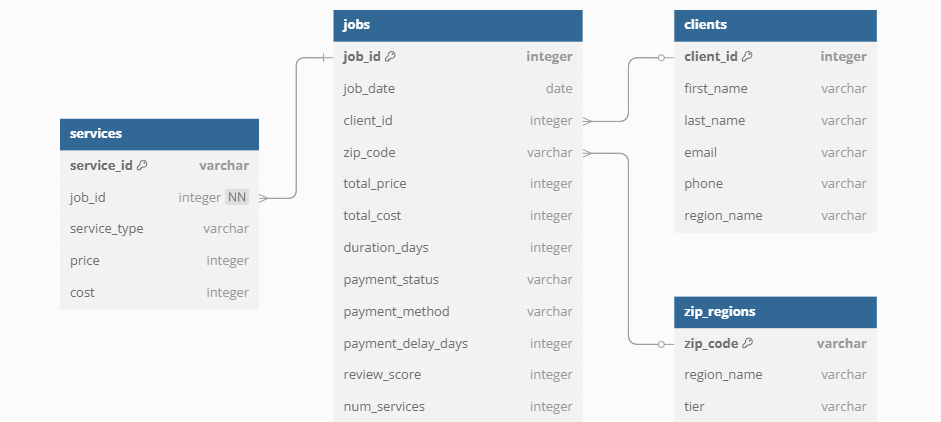
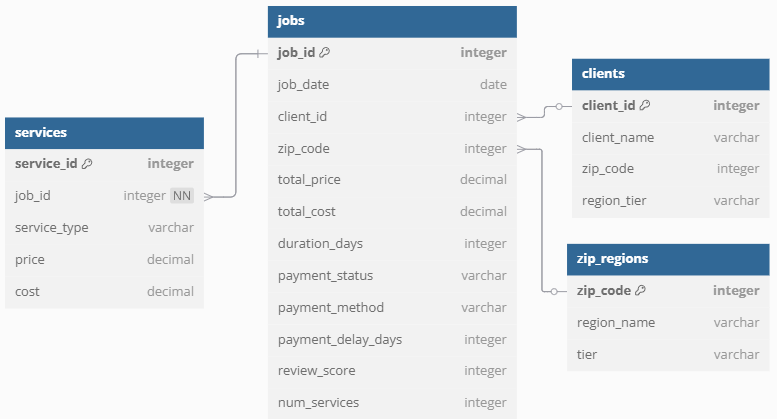
updated readme, files

diff --git a/data_generation/generate_dataset.py b/data_generation/generate_dataset.py
@@ -1,3 +1,18 @@
+"""
+This script creates a synthetic dataset simulating a residential home services business.
+It generates four CSV files: jobs.csv, services.csv, clients.csv, and zip_regions.csv.
+
+HOW TO RUN:
+1. Make sure you have Python 3 installed.
+2. Install required packages using:
+   pip install faker numpy pandas
+3. Run the script in your terminal or VS Code:
+   python generate_dataset.py
+4. Output CSV files will be saved in the 'data' directory.
+
+Note: The data is randomized but based on real-world logic and business operations.
+"""
+
 # Synthetic Home Services Dataset Generator
 import pandas as pd
 import numpy as np

diff --git a/README.md b/README.md
@@ -1,2 +1,93 @@
-# Home_Services_Operational_Dashboard
-Synthetic home services dataset and Excel dashboard built from real business experience. Designed for hands-on analysis and data visualization practice.
+# Home Services Operational Dashboard
+
+Before becoming a Data Analyst, I ran my own exterior cleaning company in Orlando, FL. We specialized in pressure washing, soft washing, and paver sealing. I always wished I had better data to guide decisions, so I built the dataset I never had. This project uses synthetic data modeled directly on my real-world experience, scaled up in volume to uncover trends and evaluate performance with the kind of depth I used to want as a small business owner.
+
+📊 [Excel Dashboard](./home_services_project.xlsx)
+
+![Excel Dashboard Overview](assets/home_services_operational_dashboard.png)
+
+## 🧠 Executive Summary
+
+Built on synthetic data modeled from my own business, this project uncovers key insights into how a small home services company operates in real life—in terms of volume, profitability, and customer behavior:
+
+- **Consistent Volume:** ~90 jobs/month across two years, reflecting sustainable operations.
+- **Bundling Wins:** Jobs with 3–4 services delivered 40–90% more profit per job.
+- **Top Services:** Roof Cleaning and Paver Sealing dominate profit and revenue.
+- **Healthy Margins:** Most services yield 80%+ profit margins, even when bundled.
+- **Customer Trends:** 30% repeat client rate and 41% multi-service booking rate.
+
+## 🔧 Dataset Creation
+
+Using Python (in VS Code), with help from ChatGPT, I built a data generator powered by `Faker` and `NumPy` that reflects real-world dynamics from my days running an exterior-cleaning business: seasonal demand, ZIP-level pricing tiers (High, Mid, Standard), frequent bundling, and even repeat client behavior.  
+🛠 [Data Generation Script](./data_generation/generate_dataset.py)  
+📂 [Data Folder](./data/)  
+
+<img src="assets/entity_relationship_diagram.png" width="600"/>
+
+## 💡 Key Business Questions Answered
+
+- Which services drive the most profit and why?
+- How do bundled jobs compare to single-service bookings?
+- Are we operating near job capacity across months?
+- What’s the ratio of repeat clients and multi-service customers?
+- How do profit margins shift with seasonal demand?
+
+
+## 📊 Analysis Summary
+
+### 1. **Operational Efficiency and Growth Over Time**
+
+- Job volume remained steady between the two years, with 531 jobs completed in 2023 and 551 in 2024. This reflects strong operational consistency in a seasonal and demand-driven industry. Monthly job completion averaged around 90, suggesting the business operated near capacity without frequent overloading.
+
+- The rolling 7‑day average, plotted alongside a 3-jobs-per-day ceiling, confirmed that even during busier months, job load stayed within manageable limits. This supports a realistic model for small teams and lean operations.
+
+### 2. **Revenue and Profit by Service Type**
+
+- Paver Sealing brought in the highest average ticket at around $1,800 per job, though it maintained slimmer profit margins at roughly 60%. Roof Cleaning, by comparison, averaged $1,150 per job but held a strong 81% profit margin, making it the most valuable blend of volume and profitability.
+
+- Other service types, such as Window Cleaning and Driveway Cleaning, clustered in the $80 to $320 range, all maintaining healthy margins as well. This consistency indicates good cost control and pricing strategy across service lines.
+
+    ![Profitability By Service Type Table](assets/profitability_by_service_type.png)
+
+### 3. **Bundling Strategy Impact**
+
+- Jobs with multiple services consistently produced higher total profit. Single-service jobs averaged $559 in profit, while bundling four services pushed the average to $1,068.
+
+- Although total job cost rose slightly with more services, profit margins remained stable around 80%, suggesting bundling boosts efficiency without hurting profitability.
+
+- Interestingly, average job cost was actually higher for single-service jobs. This is due to high-ticket services like paver sealing and roof cleaning often being booked alone. These services carry higher costs, but their strong margins keep them highly profitable. When smaller, lower-cost services are bundled, margins improve and total profits climb — highlighting the value of cross-service packaging. 
+
+    ![Bundling Vs Profit Table](assets/how_bundling_multiple_services_affects_profit.png)
+
+### 4. **Seasonality and Scheduling Patterns**
+
+- Spring months like April and May showed the highest job volume, with a summer taper and a secondary spike around the holiday season. This pattern aligns with observed demand trends in Florida-based operations, where winter weather doesn’t constrain year-end service work.
+
+- Despite the seasonal demand, job load never breached the daily capacity threshold, showing that scheduling remained controlled and sustainable across the year.
+
+### 5. **Customer Behavior and Retention**
+
+- Roughly 30% of bookings came from repeat clients, a healthy figure with potential for improvement through retention efforts and loyalty campaigns.
+
+- About 41% of all jobs involved multiple services. Although discounted when bundled, these upsells still boosted total profitability. With healthy margins holding steady, bundling proved to be a strategic advantage, especially when promoted during high-demand months.
+
+## 🎯 Conclusion & Key Takeaways
+
+Building this dashboard helped confirm a few things that align with what I saw in the field:
+
+- **Consistency matters.** Steady job volume and capacity awareness kept the business sustainable through seasonal demand.
+- **Upselling works.** Bundled services increased profit without harming margins, showing how smart packaging can maximize value.
+- **Profit comes from focus.** Roof cleaning and paver sealing drove the most revenue and should stay at the center of strategy.
+- **Customer behavior tells a story.** With 30% of clients returning and 41% choosing bundled services, there's clear room to grow through retention and loyalty.
+- **Synthetic doesn't mean random.** Modeling based on personal experience led to insights that feel grounded and usable, not generic.
+
+Overall, this kind of structured analysis makes it easier to spot what’s working, what’s not, and where to focus next. It’s the kind of clarity I always wished I had when I was running the show solo and wearing every hat.
+
+## 🧭 Opportunities for Further Exploration
+
+This project didn’t cover everything in the dataset. Areas for future analysis could include:
+
+- **Forecasting:** Build predictive models for future job demand.
+- **Pricing Optimization:** Simulate discounts and bundle offers.
+- **Customer Segmentation:** Cluster clients by value or behavior.
+- **Satisfaction Trends:** Explore the impact of payment delays or review scores.
